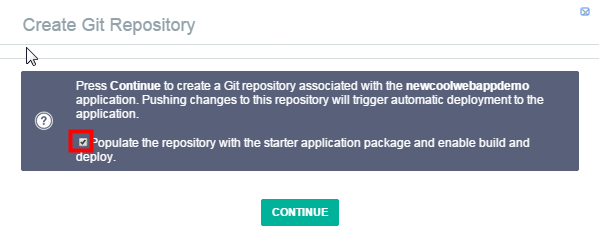
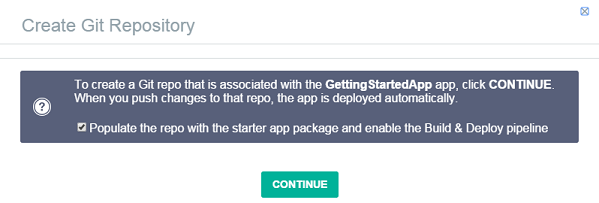
devopsoverview updates Task 46379

diff --git a/tutorials/devopsoverview/index.md b/tutorials/devopsoverview/index.md
@@ -69,22 +69,20 @@ After a moment, the app starts. The app's Dashboard  opens and displays the star
 Now that your app is running, you can see and modify the code by using DevOps Services.-->
 
 <a name='git_integration_and_autodeployment'></a>
-### Add DevOps Services
+###Set up Git integration and auto-deploy in DevOps Services
 
-<!--You can work with your app's code in many ways. For example, with auto-deploy, you can modify the code that runs in your app by pushing your changes to a Git repository. You can auto-deploy your code if you use the Build & Deploy capabilities of DevOps Services. -->
+You can work with your app's code in many ways. For example, with auto-deploy, you can modify the code that runs in your app by pushing your changes to a Git repository. You can auto-deploy your code if you use the Build & Deploy capabilities of DevOps Services.
 
-When you add DevOps Services (**ADD GIT**), you get a DevOps Services project with capabilities, including a Git repository that is fully configured to deploy on commit. 
+1. To enable auto-deploy, go to your app's Overview page on the Bluemix Dashboard and click **ADD GIT**. A Git repository is created and is populated with example code and a deployed app. You might be prompted to enter your password to verify that DevOps Services can act on your behalf. 
+![Add Git button](/tutorials/jazzeditor/images/bm-add-git-integration_NEW.png)
 
-1. From your app's Overview page on the Bluemix Dashboard, click **ADD GIT**.  A Git repository is created and is populated with example code and a deployed app. You might be prompted to enter your password to verify that DevOps Services can act on your behalf.
-
- ![Add Git button](/tutorials/jazzeditor/images/bm-add-git-integration_NEW.png)
-
-2. Make sure that the **Populate the repository with the starter application package and enable build and deploy** check box is selected; then click **CONTINUE**.
-
+2. Make sure that the **Populate the repository with the starter application package and enable build and deploy** check box is selected.
 ![Create Git repo dialog](/tutorials/jazzeditor/images/bm-create-git-repo_NEW.png)
-
 You created a Git repository, populated it with the example code, and deployed the app.
 ![Git repo success message dialog](/tutorials/jazzeditor/images/bm-git-repo-success-msg_NEW.png)
+
+3. Go to the app's Overview page and click **EDIT CODE**. Your new project opens in the web integrated development environment (Web IDE).  
+![CODE button](/tutorials/jazzeditor/images/bm-code-button_NEW.png)
 
 
 ### Edit the app in Live Edit mode
@@ -103,7 +101,7 @@ You created a Git repository, populated it with the example code, and deployed t
 
  <img class="inline"  src="images/key_info.png" alt="Key information icon">  If you update a node module, use the **Quick Restart** icon to restart the node run time in seconds, without redeploying the app.
  
-5. To try out Live Edit mode, in the directory, click `public/index.html`.  Change "Hi there!" to "Hi there! More title text!". You can see the changes in the deployed app.  
+5. To try out Live Edit mode, in the file directory, click `public/index.html`.  Change "Hi there!" to "Hi there! More title text!". When you refresh the browser, you can see the changes in the deployed app.  
 
 **Note** In the video, Adam edits the views/body.jade file.  However, because that file is no longer in the starter pack, you'll edit the index.html file to get the same results.
 
